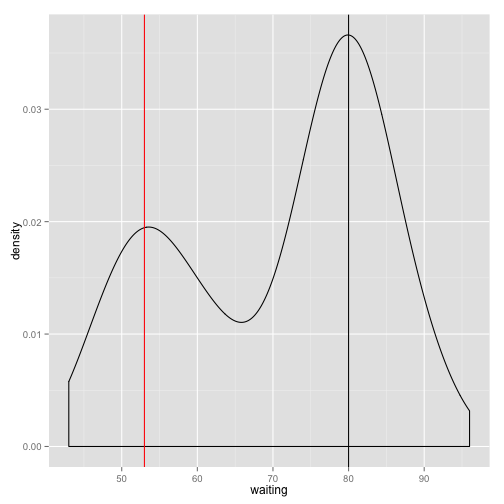
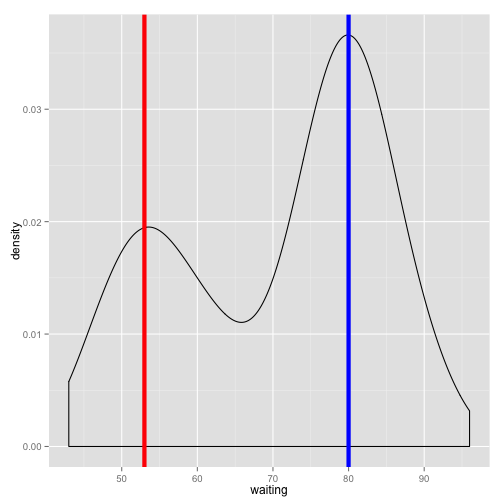
Grammar and Updating Naive Clustering Post

Changed region(s): [[0.6845, 0.0298, 0.7143, 0.9226], [0.2679, 0.0298, 0.2976, 0.9226]]

diff --git a/_posts/2015-10-13-mixture-model.md b/_posts/2015-10-13-mixture-model.md
@@ -62,13 +62,13 @@ This data is 2-column data.frame
 
 Putting the data into context suggests that the eruption times may be coming from two different subpopulations. There could be several reasons for this. For instance, maybe at different times of the year the geyser eruptions are more frequent. You can probably take an intutive guess as to how you could split this data. 
 
-For instance, there likely is a subpopulation with a mean eruption of ~53 with some variance around this mean (red vertical line in figure below.) Another population with a mean eruption of ~80 with again some variance around this mean (black vertical line in figure below).
+For instance, there likely is a subpopulation with a mean eruption of ~53 with some variance around this mean (red vertical line in figure below.) Another population with a mean eruption of ~80 with again some variance around this mean (blue vertical line in figure below).
 
 
 ```r
 p + 
-	geom_vline(x = 53, col = "red") + 
-	geom_vline(x = 80)
+	geom_vline(x = 53, col = "red", size = 2) + 
+	geom_vline(x = 80, col = "blue", size = 2)
 ```
 
 ![plot of chunk naive_cluster]({{ site.url }}/assets/mixture-model-naive_cluster-1.png) 
@@ -77,7 +77,7 @@ In fact, what we've done is a naive attempt at trying to group the data into sub
 
 ## Using a Gaussian Mixture Model for Clustering
 
-As mentioned in the beginning, a mixture model consist of a mixture of distributions. The first thing you need to do when performing perform mixture model clustering is to determine what type of statistical distribution you want to use for the components. For this post, we will use one of the most common statistical distributions used for mixture model clustering which is the [Gaussian/Normal Distribution](https://en.wikipedia.org/wiki/Normal_distribution):
+As mentioned in the beginning, a mixture model consist of a mixture of distributions. The first thing you need to do when performing mixture model clustering is to determine what type of statistical distribution you want to use for the components. For this post, we will use one of the most common statistical distributions used for mixture model clustering which is the [Gaussian/Normal Distribution](https://en.wikipedia.org/wiki/Normal_distribution):
 
 $$ \mathcal{N}(\mu, \sigma^2) $$
 
@@ -229,7 +229,7 @@ post.df %>%
 
 As you'll seen from the above example, the usage of mixture model clustering can be very powerful in providing an objective way to clustering data. Some benefits to using mixture model clustering are:
 
-* **Choice of Component Distribution**: In this post, we've used a gaussian distribution for each component. But we are not limited to using just gaussians. We can also use [binomials](https://en.wikipedia.org/wiki/Binomial_distribution), [multinomials](https://en.wikipedia.org/wiki/Multinomial_distribution), [student-t](https://en.wikipedia.org/wiki/Student%27s_t-distribution), and other types of distributions depending on the type of data we have.
+* **Choice of Component Distribution**: In this post, we've used a gaussian distribution for each component. But we are not limited to using just gaussians. We can use [binomials](https://en.wikipedia.org/wiki/Binomial_distribution), [multinomials](https://en.wikipedia.org/wiki/Multinomial_distribution), [student-t](https://en.wikipedia.org/wiki/Student%27s_t-distribution), and other types of distributions depending on the type of data we have.
 * **"Soft Labels"**: There are no "hard" labels in mixture model clustering. Instead what we get is a probability of a data point belonging each component. Ultimately, the end-user decides on the probability threshold to assign a data point to a cluster creating what are called "soft" labels.
 * **Density Estimation**: We get a measure how much data each component represents through the mixing weights.
 
